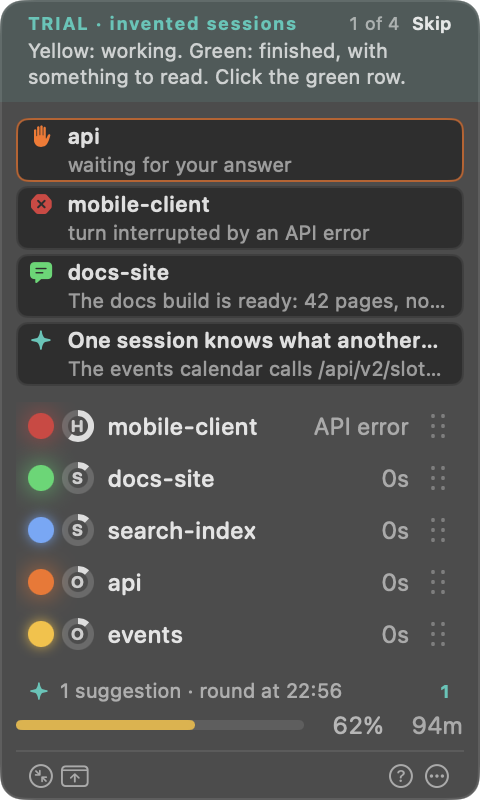
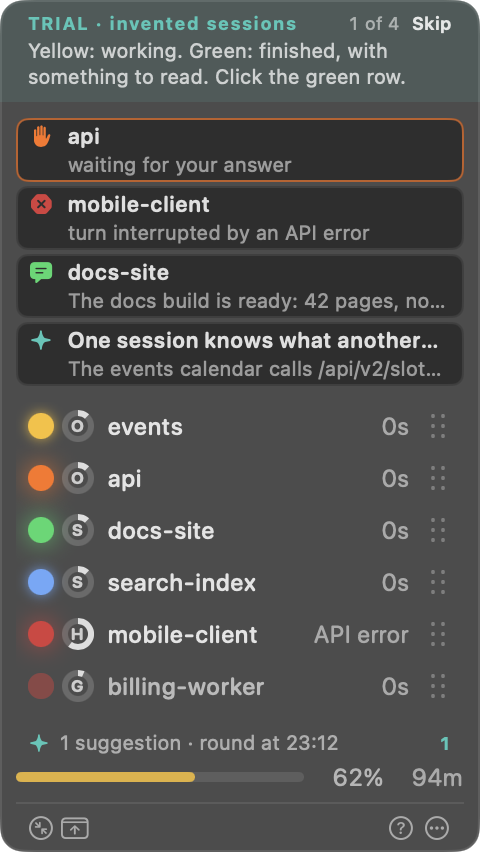
fix: the trial's Codex row stays a Codex row
A Codex session is alive while a process named codex holds its rollout
open, and the trial's had none: its row went at the first sweep, five
seconds in, and came back from the trial's session file as a Claude Code
row with no Codex letter — the picture the README had been showing, and
the reason T1.4c found the G missing.

The trial now runs the app itself as `codex trial-hold <rollout>`,
through a hard link in the trial's home: measured on the test Mac, the
process table and lsof read a hard link's name, where a symbolic link to
tail reads tail and a script reads bash. The trial's rollout starts with
the session_meta the sweep reads to know whose it is. A new end-to-end
case holds the row to its harness after three sweeps, and was seen to
fail without the fix. The README has six projects again, and a G.

diff --git a/Sources/LampBoardApp/Runtime/TrialStage.swift b/Sources/LampBoardApp/Runtime/TrialStage.swift
@@ -53,10 +53,10 @@ enum TrialStage {
             try? manager.createDirectory(atPath: path, withIntermediateDirectories: true)
             write(["pid": Int(getpid()), "workspaceFolders": [path], "ideName": "Visual Studio Code", "transport": "ws"],
                   to: claude.appendingPathComponent("ide/\(41_000 + index).lock"))
-            guard let holder = hold() else { continue }
+            if session.isCodex { writeRollout(session, cwd: path, now: now) } else { writeTranscript(session, at: path, now: now) }
+            guard let holder = session.isCodex ? holdAsCodex(rollout(of: session)) ?? hold() : hold() else { continue }
             write(["pid": Int(holder), "sessionId": session.id, "cwd": path, "entrypoint": "claude-vscode", "kind": "interactive"],
                   to: claude.appendingPathComponent("sessions/\(holder).json"))
-            if session.isCodex { writeRollout(session, now: now) } else { writeTranscript(session, at: path, now: now) }
         }
         seedLampMaster(script, preferences: preferences, files: files, now: now)
     }
@@ -89,19 +89,60 @@ enum TrialStage {
 
     static var rollouts: URL { AppConfig.codexSessionsDirectory.appendingPathComponent("2026/01/01", isDirectory: true) }
 
-    /// Codex keeps its own shape: a turn context naming the model, and a token
-    /// count that carries the window, as `make-screenshots.sh` wrote it before.
-    private static func writeRollout(_ session: DemoScript.Session, now: Date) {
+    private static func rollout(of session: DemoScript.Session) -> URL {
+        rollouts.appendingPathComponent("rollout-\(session.id).jsonl")
+    }
+
+    /// Codex keeps its own shape: the session's identity first — without it the
+    /// sweep cannot say whose rollout a process holds — then a turn context
+    /// naming the model, and a token count that carries the window.
+    private static func writeRollout(_ session: DemoScript.Session, cwd: String, now: Date) {
         try? FileManager.default.createDirectory(at: rollouts, withIntermediateDirectories: true)
         let stamp = ISO8601DateFormatter().string(from: now)
         let records: [[String: Any]] = [
+            ["timestamp": stamp, "type": "session_meta",
+             "payload": ["id": session.id, "cwd": cwd, "originator": "codex_cli_rs", "cli_version": "0.0.0"]],
             ["timestamp": stamp, "type": "turn_context", "payload": ["turn_id": "t1", "model": session.model]],
             ["timestamp": stamp, "type": "event_msg", "payload": ["type": "token_count", "info": [
                 "last_token_usage": ["input_tokens": 17_002], "model_context_window": 258_400]]],
         ]
         let text = records.compactMap { try? JSONSerialization.data(withJSONObject: $0) }
             .map { String(decoding: $0, as: UTF8.self) + "\n" }.joined()
-        try? text.write(to: rollouts.appendingPathComponent("rollout-\(session.id).jsonl"), atomically: true, encoding: .utf8)
+        try? text.write(to: rollout(of: session), atomically: true, encoding: .utf8)
+    }
+
+    /// A Codex session is alive while a process named `codex` holds its rollout
+    /// open (`CodexHolders`), and the trial's had none: its row went at the
+    /// first sweep, five seconds in, and never drew its model's letter.
+    ///
+    /// So the app runs itself under that name, through a hard link in the
+    /// trial's home, as `codex trial-hold <rollout>`. Measured on the test Mac:
+    /// the process table and `lsof` read the link's name, where a symbolic link
+    /// to `tail` reads `tail` and a shell script `bash`. A link that cannot be
+    /// made — another volume — leaves the row to go as it always had.
+    private static func holdAsCodex(_ rollout: URL) -> pid_t? {
+        guard let executable = Bundle.main.executableURL else { return nil }
+        let folder = AppConfig.homeDirectory.appendingPathComponent("trial-bin", isDirectory: true)
+        let link = folder.appendingPathComponent("codex")
+        try? FileManager.default.createDirectory(at: folder, withIntermediateDirectories: true)
+        if !FileManager.default.fileExists(atPath: link.path) {
+            guard (try? FileManager.default.linkItem(at: executable, to: link)) != nil else { return nil }
+        }
+        let process = Process()
+        process.executableURL = link
+        process.arguments = ["trial-hold", rollout.path]
+        process.standardOutput = FileHandle.nullDevice
+        process.standardError = FileHandle.nullDevice
+        guard (try? process.run()) != nil else { return nil }
+        holders.append(process)
+        return process.processIdentifier
+    }
+
+    /// `trial-hold`: open the file and wait to be ended. The descriptor is the
+    /// whole point; the process does nothing else.
+    static func holdOpen(_ path: String) -> Int32 {
+        guard open(path, O_RDONLY) >= 0 else { return 1 }
+        while true { pause() }
     }
 
     private static func hold() -> pid_t? {

diff --git a/Sources/LampBoardE2E/TrialE2ESuite.swift b/Sources/LampBoardE2E/TrialE2ESuite.swift
@@ -25,6 +25,22 @@ enum TrialE2ESuite {
                 t.expect(state.body.contains("demo slots renamed"), "LampMaster's demo card is there")
             },
 
+            TestCase("the trial's Codex session outlives the sweep, held open as Codex holds a rollout") { t in
+                let trial = AppUnderTest(binaryURL: binaryURL, port: port)
+                trial.extraArguments = ["--trial", "--trial-pace", "20"]
+                defer { trial.stop() }
+                do { try trial.start() } catch { return t.fail("the trial did not start: \(error)") }
+                let arrived = trial.waitUntil(timeout: 15) { trial.status(of: "demo-billing-6") != "absent" }
+                t.expect(arrived, "the Codex row arrives")
+                // The Codex sweep keeps only what a process named codex holds
+                // open; it runs every five seconds, so three of them pass here.
+                Thread.sleep(forTimeInterval: 16)
+                // Without its stand-in the row did not vanish for good: it went at the
+                // sweep and came back from the trial's session file as a Claude
+                // Code row, with no Codex letter — which is what the README showed.
+                t.expectEqual(trial.session(id: "demo-billing-6")?.harness, "codex", "still a Codex row after the sweeps")
+            },
+
             TestCase("quitting a trial removes its home and its stand-in processes") { t in
                 let home = FileManager.default.temporaryDirectory
                     .appendingPathComponent("lampboard-trial-e2e\(ProcessInfo.processInfo.processIdentifier)")

diff --git a/Sources/LampBoardApp/CommandLineInterface.swift b/Sources/LampBoardApp/CommandLineInterface.swift
@@ -12,6 +12,9 @@ enum CommandLineInterface {
         case uninstall
         case status
         case codexProbe
+        /// The trial's stand-in for a Codex process: holds a rollout open until
+        /// it is ended. Started by the trial under the name `codex`; not for people.
+        case trialHold(path: String)
         case selfTest(port: UInt16)
         /// The `lampmaster` MCP server: Claude Code starts it, it talks JSON-RPC
         /// on standard input and output and asks the running panel.
@@ -60,6 +63,9 @@ enum CommandLineInterface {
             return .status
         case "codex-probe":
             return .codexProbe
+        case "trial-hold":
+            guard let path = args.dropFirst().first else { return .help }
+            return .trialHold(path: path)
         case "tour":
             return .tour(json: args.contains("--json"))
         case "mcp":
@@ -144,6 +150,9 @@ enum CommandLineInterface {
 
         case .codexProbe:
             return runCodexProbe()
+
+        case .trialHold(let path):
+            return TrialStage.holdOpen(path)
 
         case .selfTest(let port):
             return SelfTest.run(port: port)

diff --git a/docs/05-code-map.md b/docs/05-code-map.md
@@ -6,9 +6,9 @@ it exists, and **what you would break** by touching it.
 ```
 Sources/
   LampBoardCore/  16,403 lines · 128 files  pure logic, zero AppKit
-  LampBoardApp/    20,270 lines · 113 files   shell: AppKit, network, windows
+  LampBoardApp/    20,320 lines · 113 files   shell: AppKit, network, windows
   LampBoardTests/  13,673 lines · 79 files   985 cases, instantaneous
-  LampBoardE2E/    3,949 lines · 17 files   134 cases, the real binary
+  LampBoardE2E/    3,965 lines · 17 files   135 cases, the real binary
   TestKit/            369 lines ·  4 files   minimal assertions
 ```
 
@@ -1299,7 +1299,7 @@ same start serves the menus' *Take the tour…* and the offer made right after t
 hooks are installed; neither appears inside a trial, where a tour would stack
 panels.
 
-### `CommandLineInterface.swift` · 713
+### `CommandLineInterface.swift` · 722
 The commands and their dispatch: install-hooks, uninstall-hooks, status, selftest, focus, next, open, new, chat, sessions, remote, terminal, rename, mcp, mod, watch, tour. `--port` is read only before a `--`, so a watched command's own `--port` stays its own. `new` and `chat` share `runSlotCommand`; `open` stays separate
 because a bare `open` lists the assignments, which is a different command wearing
 the same name. `focus --dry-run` diagnoses without moving any windows.
@@ -1340,7 +1340,7 @@ there, the hooks are registered — and it names the link that broke.
 | `LampMasterRunner.swift` | 94 | finds and runs `claude` for a round or a question — only in the fake home under `LAMPBOARD_HOME`, so a test that forgot its fake fails instead of spending the real one; the pids in flight, held only while they run, so quitting stops them; the box the server reads the state from |
 | `LampMasterCards.swift` | 128 | a card for every conversation LampMaster may look at: the panel's rows, and the transcripts closed in the last week. Followed by byte offset like the chat window — the tail first, then only what was appended, again from the start if the file shrank. An `actor`, so the reads stay off the thread that draws |
 | `LampMasterFiles.swift` | 159 | `~/.lampboard/lampmaster/`: rounds, suggestions with their outcomes, the notebook, the last 200 frames, the last day's questions. The folder is `0700` because the frames quote conversations |
-| `TrialStage.swift` | 156 | the trial: an editor lock per invented project, a stand-in process per session, a transcript with a title, LampMaster's demo card, then every beat posted to the app's own `/signal`. **Refused without `LAMPBOARD_HOME`**, where it would put invented sessions into the real `~/.claude`; on quit the stand-ins end and the home goes, but only a home `lampboard tour` named |
+| `TrialStage.swift` | 197 | the trial: an editor lock per invented project, a stand-in process per session — for the Codex one, the app itself run as `codex trial-hold <rollout>` through a hard link, since a Codex session lives only while a process of that name holds its rollout open — a transcript with a title, LampMaster's demo card, then every beat posted to the app's own `/signal`. **Refused without `LAMPBOARD_HOME`**, where it would put invented sessions into the real `~/.claude`; on quit the stand-ins end and the home goes, but only a home `lampboard tour` named |
 | `SupportDirectoryMigration.swift` | 60 | carries `remotes` and `inbox` over from the support directory of the previous name — both unrecoverable elsewhere, both failing silently |
 | `SnapshotBox.swift` | 27 | lock-protected copy for the server |
 | `TokenStore.swift` | 78 | `0600` token, **regenerated** if the permissions are wide |
@@ -1627,7 +1627,7 @@ the vocabulary they are testing. A blunt instrument ends the process with 70
 rather than the 1 of an ordinary failure, because the two mean different things.
 `Scripts/bite.sh` attacks it from the outside as well.
 
-## `LampBoardE2E/` — 134 cases
+## `LampBoardE2E/` — 135 cases
 
 | Suite | Covers |
 |---|---|
@@ -1639,7 +1639,7 @@ rather than the 1 of an ordinary failure, because the two mean different things.
 | `ScaleSuite` | adoption, twenty-two sessions, dead process |
 | `InstallationSuite` | `install-hooks`, **`hook.sh` actually executed**, both halves carry the token, an old Claude Code kept on the script, non-headless startup |
 | `ModE2ESuite` | `mod install`, a reinstall, a refused install that leaves nothing half in, and `uninstall-hooks`, through a fake `claude` that records its home; the carried files on disk; the port file written `0600`, `/mod` refusing a missing or wrong token and a body that is not a report, a measure landing on a hook's row as the session's own count without touching its colour, and making no row of its own |
-| `TrialE2ESuite` | the trial playing the script into the four states the reducer really produces, quitting it leaving no home and no process, `tour --json` printing a script that holds nothing real |
+| `TrialE2ESuite` | the trial playing the script into the four states the reducer really produces, its Codex row still a Codex row after three sweeps, quitting it leaving no home and no process, `tour --json` printing a script that holds nothing real |
 | `TokenLifecycleSuite` | reuse, regeneration, corrupted token, **the launch repair** in a home of its own, an installation under the previous name brought forward |
 | `LampMasterE2ESuite` | `mcp install` registering through `claude`'s own command and `uninstall-hooks` taking it out; `lampboard mcp` started as Claude Code starts it, answering from the cards without the asker and behind the notice; a question that keeps only the real source and costs nothing the second time; a round against a fake `claude` that writes down its standard input and arguments: the frame on the pipe and never on the command line, the validator dropping an invented quote, the skip when nothing changed, the day's ceiling, the deadline, an answer outside the schema, switched off, the token; a failure repeated three times bringing a quick round with Sonnet at the turn's end, and a second turn's end within the minute bringing none |
 

diff --git a/README.md b/README.md
@@ -18,7 +18,8 @@ while three background agents keep working for another forty minutes.
 states, and a ring on each row showing how full its context window is.">
 
 A project in each state, and a ring on every row. The letter in the ring is the
-model — `S`onnet, `O`pus, `H`aiku. Above the rows, what waits for you, most urgent
+model — `S`onnet, `O`pus, `H`aiku, and `G` for the GPT model of the Codex row at the
+bottom. Above the rows, what waits for you, most urgent
 first: a session asking, a turn that failed, an answer to read, and LampMaster's
 suggestion last. Under the rows, LampMaster's line and the account's allowance. That picture is not a screenshot somebody took: `Scripts/make-screenshots.sh`
 starts the tutorial's trial — the real app on a temporary home, playing a script of
@@ -1408,7 +1409,7 @@ Sources/
 ```bash
 ./Scripts/test.sh                      # both suites, then the documentation
 swift run LampBoardTests              # 985 domain tests, instantaneous
-swift run LampBoardE2E                # 134 end-to-end tests, ~1 minute
+swift run LampBoardE2E                # 135 end-to-end tests, ~1 minute
 swift run LampBoardTests "Subagents"  # filter by suite or case
 ./Scripts/check-docs.sh                # the figures the docs state are still true
 ./Scripts/check-contract.sh            # the assumptions about Claude Code still hold

diff --git a/WORKLOG.md b/WORKLOG.md
@@ -931,7 +931,7 @@ which of the two is happening is what stops the next person hunting for a bug.
 | | |
 |---|---|
 | Domain tests | **985**, instantaneous |
-| End-to-end tests | **134**, about a minute |
+| End-to-end tests | **135**, about a minute |
 | Build | clean, no warnings — CI builds with `-warnings-as-errors` |
 | Unbounded process waits | **0** — every one carries a deadline |
 | Documentation gates | **11**, each with a mutation that proves it fails |
@@ -2383,3 +2383,11 @@ order; the README's picture is that one now. Looking for why the trial's Codex r
 had vanished from it turned up the reason it never drew its letter either: no
 process named `codex` holds its rollout open, and that is the only proof of life a
 Codex session gives.
+
+So the trial now gives it one. The app runs itself as `codex trial-hold <rollout>`,
+through a hard link in the trial's home — the only name a process table believes,
+measured against a symbolic link (read as `tail`) and a script (read as `bash`) —
+and the trial's rollout starts with the `session_meta` the sweep reads to know whose
+it is. The row is a Codex row after three sweeps now, where before it went at the
+first and came back from the trial's session file as a Claude Code row, which is the
+picture the README had been showing. The README has six projects again, and a `G`.

diff --git a/docs/08-gates.md b/docs/08-gates.md
@@ -69,7 +69,7 @@ Measured on an M-series Mac, 29 August 2026.
 |---|---|---|---|---|---|
 | Domain suite (985 cases) | the pure logic behaves | filesystem | `bite.sh --swift` breaks a comparison and demands exit 1 | CI, `test.sh` | 1.9 s |
 | The instrument (19 proofs) | the assertions can fail | filesystem | `bite.sh --swift`, three mutations of TestKit | every suite run, first | in the above |
-| End-to-end suite (134 cases) | the real binary, over HTTP, against a fake home | filesystem | the suite launches the shipped binary; a broken build cannot pass it | CI, `test.sh` | 42 s |
+| End-to-end suite (135 cases) | the real binary, over HTTP, against a fake home | filesystem | the suite launches the shipped binary; a broken build cannot pass it | CI, `test.sh` | 42 s |
 | Figures in the code map | every stated line count, file count and case count | filesystem | `bite.sh` drifts a figure, then rewords the table away | CI, `test.sh` | 0.5 s (all nine) |
 | Links between documents | every relative link and anchor resolves | filesystem | `bite.sh` breaks a link, then deletes a guarded document | CI, `test.sh` | ” |
 | Figures outside the code map | README and docs state the same numbers | filesystem | `bite.sh` drifts one, then rewords the sentence away | CI, `test.sh` | ” |

diff --git a/docs/01-architecture.md b/docs/01-architecture.md
@@ -122,7 +122,7 @@ The practical rule: if a function contains an `if` answering a domain question
 
 ### `LampBoardE2E` — the real chain
 
-134 cases. They launch **the production binary** against a fake home and talk to
+135 cases. They launch **the production binary** against a fake home and talk to
 it over HTTP, the way the hooks do. They go as far as running `hook.sh` with the
 payload on stdin: in between sit bash, `curl`, the socket, the parser, the
 decoder and the reducer.

diff --git a/docs/06-working-here.md b/docs/06-working-here.md
@@ -47,7 +47,7 @@ remote named `hub` pointing at that repository, and nothing else from this one.
 
 ```bash
 swift run LampBoardTests              # 985 cases, instantaneous
-swift run LampBoardE2E                # 134 cases, about a minute
+swift run LampBoardE2E                # 135 cases, about a minute
 swift run LampBoardTests "Subagents"  # filter by suite or by case
 ```
 
